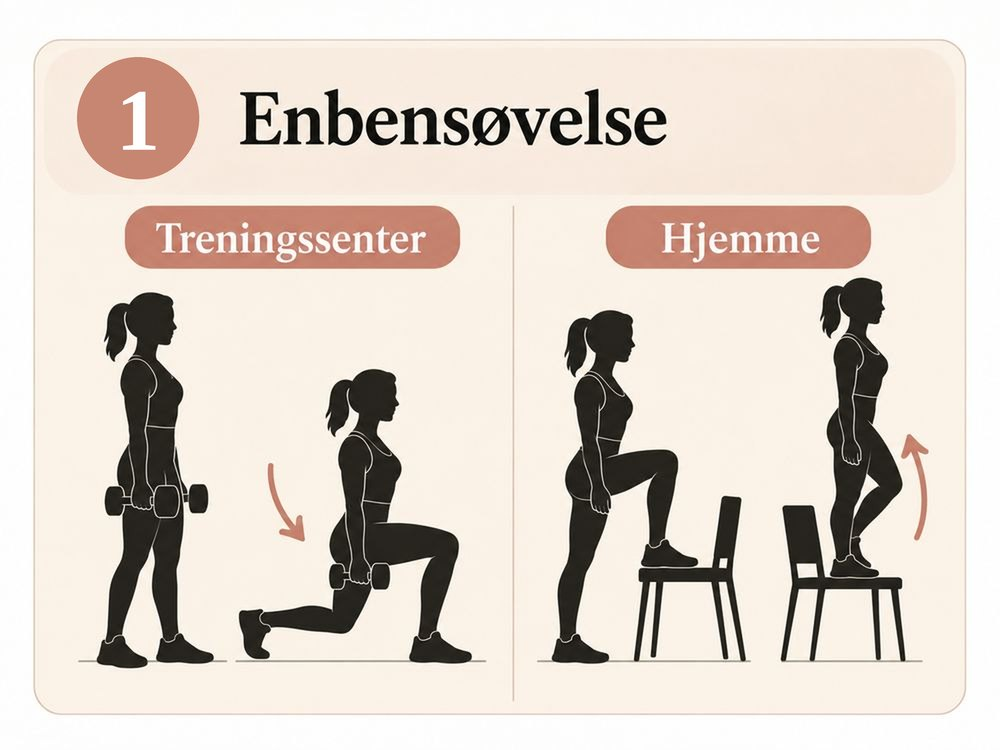
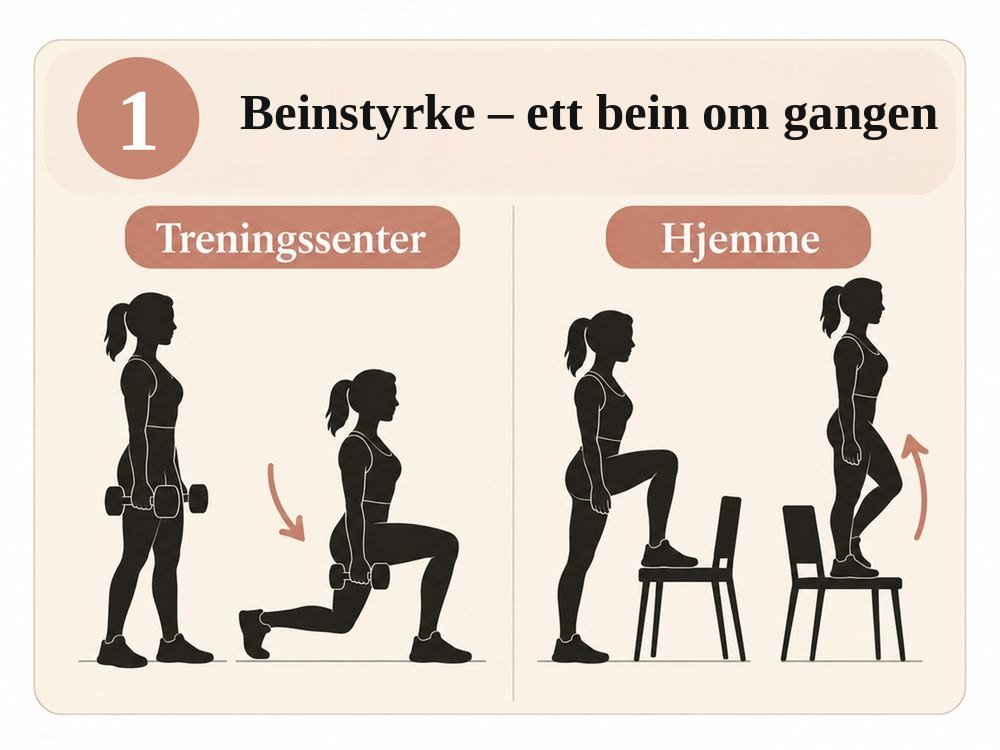
Endre navnet Enbensøvelse til Beinstyrke – ett bein om gangen
Gjelder overskriften i bildene og beskrivelsene av dem på ukeplanene
og i øvelsesbanken.

Claude-Session: https://claude.ai/code/session_01AskgJg6Kkd8mdVzJkkPLJh

Changed region(s): [[0.248, 0.1227, 0.961, 0.2147]]

diff --git a/ovelsesbank.html b/ovelsesbank.html
@@ -434,6 +434,54 @@
   .bank-button:hover { background: #87491a; }
   .bank-button:focus-visible { outline: 3px solid var(--accent-dark); outline-offset: 2px; }
 
+  .print-box {
+    display: flex;
+    flex-wrap: wrap;
+    align-items: center;
+    justify-content: space-between;
+    gap: 0.6rem 1rem;
+    margin: 1.5rem 0 0;
+    padding: 0.9rem 1.1rem;
+    background: var(--card);
+    border: 1px solid var(--border);
+    border-radius: 12px;
+  }
+  .print-box p { margin: 0; flex: 1 1 220px; font-size: 0.9rem; color: var(--muted); }
+  .print-button {
+    display: inline-flex;
+    align-items: center;
+    gap: 0.45rem;
+    padding: 0.6rem 1.1rem;
+    border-radius: 999px;
+    border: 1px solid var(--accent-dark);
+    background: var(--card);
+    color: var(--accent-dark);
+    font-weight: 600;
+    font-size: 0.95rem;
+    cursor: pointer;
+  }
+  .print-button:hover { background: var(--accent-soft); }
+  .print-button:focus-visible { outline: 2px solid var(--accent); outline-offset: 2px; }
+  .print-only { display: none; }
+
+  @media print {
+    @page { margin: 14mm; }
+    body { background: #fff; font-size: 11pt; }
+    .hero { background: none; padding: 0 0 0.5rem; border: 0; text-align: left; }
+    .hero h1 { font-size: 18pt; margin: 0 0 0.25rem; }
+    .hero p { margin: 0; max-width: none; }
+    .page-logo, .print-box, .place-switch, .figure-switch, .equip-button, .bank-button,
+    .home-link, footer.closing, .about-box .chevron { display: none !important; }
+    .print-only { display: block; margin: 0.4rem 0 0; font-size: 10pt; color: #444; }
+    .wrap { max-width: none; padding: 0; }
+    .card, .about-box { box-shadow: none !important; margin: 0.8rem 0 !important; padding: 0.8rem 1rem !important; break-inside: auto; }
+    .card h2, .card h3, .about-box summary { break-after: avoid; }
+    .exercises li, .week li, .meta, .bank-box, .level-note { break-inside: avoid; }
+    .exercises li:nth-child(odd), .meta, .bank-box, .level-note { background: #f3f6f7 !important; -webkit-print-color-adjust: exact; print-color-adjust: exact; }
+    .thumb { -webkit-print-color-adjust: exact; print-color-adjust: exact; }
+    a { color: inherit !important; text-decoration: none !important; }
+  }
+
 
   .bank-intro ol { margin: 0 0 0.75rem; padding-left: 1.25rem; }
   .bank-intro ol li { margin: 0 0 0.5rem; }
@@ -596,7 +644,7 @@
           <ul class="exercises">
           <li><a class="thumb-link v-gym k-kvinne" href="images/ukeplan-kneboy-stor.jpg?v=2" aria-label="Se større bilde: Knebøy på treningssenter"><img class="thumb" src="images/ukeplan-kneboy-senter.jpg" width="120" height="100" loading="lazy" alt="Knebøy på treningssenter: illustrasjon med silhuetter."></a><a class="thumb-link v-gym k-mann" href="images/ukeplan-mann-kneboy-stor.jpg" aria-label="Se større bilde: Knebøy på treningssenter"><img class="thumb" src="images/ukeplan-mann-kneboy-senter.jpg" width="120" height="100" loading="lazy" alt="Knebøy på treningssenter: illustrasjon med silhuetter."></a><a class="thumb-link v-home k-kvinne" href="images/ukeplan-kneboy-stor.jpg?v=2" aria-label="Se større bilde: Knebøy hjemme"><img class="thumb" src="images/ukeplan-kneboy-hjemme.jpg?v=2" width="120" height="100" loading="lazy" alt="Knebøy hjemme: illustrasjon med silhuetter."></a><a class="thumb-link v-home k-mann" href="images/ukeplan-mann-kneboy-stor.jpg" aria-label="Se større bilde: Knebøy hjemme"><img class="thumb" src="images/ukeplan-mann-kneboy-hjemme.jpg" width="120" height="100" loading="lazy" alt="Knebøy hjemme: illustrasjon med silhuetter."></a><span class="v-gym">Knebøy med stang<span class="how">Stanga på øvre del av ryggen. Sett deg ned og litt bakover, knærne følger tærne.</span></span><span class="v-home">Knebøy med manual eller kettlebell<span class="how">Hold vekten foran brystet (goblet-knebøy), gjerne ned mot en stol.</span></span></li>
           <li><a class="thumb-link v-gym k-kvinne" href="images/bank-beinpress-k-stor.jpg" aria-label="Se større bilde: Beinpress på treningssenter"><img class="thumb" src="images/bank-beinpress-k-senter.jpg" width="120" height="100" loading="lazy" alt="Beinpress på treningssenter: illustrasjon med silhuetter."></a><a class="thumb-link v-gym k-mann" href="images/bank-beinpress-stor.jpg" aria-label="Se større bilde: Beinpress på treningssenter"><img class="thumb" src="images/bank-beinpress.jpg" width="120" height="100" loading="lazy" alt="Beinpress på treningssenter: illustrasjon med silhuetter."></a><a class="thumb-link v-home k-kvinne" href="images/bank-beinpress-k-stor.jpg" aria-label="Se større bilde: Beinpress hjemme"><img class="thumb" src="images/bank-beinpress-k-hjemme.jpg" width="120" height="100" loading="lazy" alt="Beinpress hjemme: illustrasjon med silhuetter."></a><a class="thumb-link v-home k-mann" href="images/ukeplan-mann-beinpress-stor.jpg" aria-label="Se større bilde: Beinpress hjemme"><img class="thumb" src="images/ukeplan-mann-beinpress-hjemme.jpg" width="120" height="100" loading="lazy" alt="Beinpress hjemme: illustrasjon med silhuetter."></a><span class="v-gym">Beinpress<span class="how">Senk kontrollert til knærne er rundt 90 grader, og press opp uten å låse knærne.</span></span><span class="v-home">Knebøy til stol på ett bein<span class="how">Sett deg rolig ned på stolen og reis deg på ett bein. Start på to bein med en kettlebell, som på bildet.</span></span></li>
-          <li><a class="thumb-link v-gym k-kvinne" href="images/ukeplan-enbens-stor.jpg" aria-label="Se større bilde: Utfall og step-up på treningssenter"><img class="thumb" src="images/ukeplan-enbens-senter.jpg" width="120" height="100" loading="lazy" alt="Utfall og step-up på treningssenter: illustrasjon med silhuetter."></a><a class="thumb-link v-gym k-mann" href="images/ukeplan-mann-enbens-stor.jpg" aria-label="Se større bilde: Utfall og step-up på treningssenter"><img class="thumb" src="images/ukeplan-mann-enbens-senter.jpg" width="120" height="100" loading="lazy" alt="Utfall og step-up på treningssenter: illustrasjon med silhuetter."></a><a class="thumb-link v-home k-kvinne" href="images/ukeplan-enbens-stor.jpg" aria-label="Se større bilde: Utfall og step-up hjemme"><img class="thumb" src="images/ukeplan-enbens-hjemme.jpg" width="120" height="100" loading="lazy" alt="Utfall og step-up hjemme: illustrasjon med silhuetter."></a><a class="thumb-link v-home k-mann" href="images/ukeplan-mann-enbens-stor.jpg" aria-label="Se større bilde: Utfall og step-up hjemme"><img class="thumb" src="images/ukeplan-mann-enbens-hjemme.jpg" width="120" height="100" loading="lazy" alt="Utfall og step-up hjemme: illustrasjon med silhuetter."></a><span class="v-gym">Utfall med manualer<span class="how">Ta et steg fram eller bak, og senk bakre kne rolig mot gulvet.</span></span><span class="v-home">Step-up på stol<span class="how">Gå opp på en stødig stol eller et trappetrinn med ett bein, og ned igjen kontrollert. Hold gjerne manualer i hendene for mer.</span></span></li>
+          <li><a class="thumb-link v-gym k-kvinne" href="images/ukeplan-enbens-stor.jpg?v=2" aria-label="Se større bilde: Utfall og step-up på treningssenter"><img class="thumb" src="images/ukeplan-enbens-senter.jpg" width="120" height="100" loading="lazy" alt="Utfall og step-up på treningssenter: illustrasjon med silhuetter."></a><a class="thumb-link v-gym k-mann" href="images/ukeplan-mann-enbens-stor.jpg?v=2" aria-label="Se større bilde: Utfall og step-up på treningssenter"><img class="thumb" src="images/ukeplan-mann-enbens-senter.jpg" width="120" height="100" loading="lazy" alt="Utfall og step-up på treningssenter: illustrasjon med silhuetter."></a><a class="thumb-link v-home k-kvinne" href="images/ukeplan-enbens-stor.jpg?v=2" aria-label="Se større bilde: Utfall og step-up hjemme"><img class="thumb" src="images/ukeplan-enbens-hjemme.jpg" width="120" height="100" loading="lazy" alt="Utfall og step-up hjemme: illustrasjon med silhuetter."></a><a class="thumb-link v-home k-mann" href="images/ukeplan-mann-enbens-stor.jpg?v=2" aria-label="Se større bilde: Utfall og step-up hjemme"><img class="thumb" src="images/ukeplan-mann-enbens-hjemme.jpg" width="120" height="100" loading="lazy" alt="Utfall og step-up hjemme: illustrasjon med silhuetter."></a><span class="v-gym">Utfall med manualer<span class="how">Ta et steg fram eller bak, og senk bakre kne rolig mot gulvet.</span></span><span class="v-home">Step-up på stol<span class="how">Gå opp på en stødig stol eller et trappetrinn med ett bein, og ned igjen kontrollert. Hold gjerne manualer i hendene for mer.</span></span></li>
           <li><a class="thumb-link v-gym k-kvinne" href="images/bank-bulgarsk-k-stor.jpg" aria-label="Se større bilde: Bulgarsk utfall på treningssenter"><img class="thumb" src="images/bank-bulgarsk-k-senter.jpg" width="120" height="100" loading="lazy" alt="Bulgarsk utfall på treningssenter: illustrasjon med silhuetter."></a><a class="thumb-link v-gym k-mann" href="images/bank-bulgarsk-stor.jpg" aria-label="Se større bilde: Bulgarsk utfall på treningssenter"><img class="thumb" src="images/bank-bulgarsk-senter.jpg" width="120" height="100" loading="lazy" alt="Bulgarsk utfall på treningssenter: illustrasjon med silhuetter."></a><a class="thumb-link v-home k-kvinne" href="images/bank-bulgarsk-k-stor.jpg" aria-label="Se større bilde: Bulgarsk utfall hjemme"><img class="thumb" src="images/bank-bulgarsk-k-hjemme.jpg" width="120" height="100" loading="lazy" alt="Bulgarsk utfall hjemme: illustrasjon med silhuetter."></a><a class="thumb-link v-home k-mann" href="images/bank-bulgarsk-stor.jpg" aria-label="Se større bilde: Bulgarsk utfall hjemme"><img class="thumb" src="images/bank-bulgarsk-hjemme.jpg" width="120" height="100" loading="lazy" alt="Bulgarsk utfall hjemme: illustrasjon med silhuetter."></a><span class="v-gym">Bulgarsk utfall<span class="how">Bakre fot på en benk, senk deg rett ned. Krevende, og gir mye effekt med lette vekter.</span></span><span class="v-home">Bulgarsk utfall<span class="how">Bakre fot på en stol eller sofa, senk deg rett ned. Krevende, og gir mye effekt med lette vekter.</span></span></li>
           </ul>
         </div>

diff --git a/ukeplan-mann-30-50.html b/ukeplan-mann-30-50.html
@@ -621,7 +621,7 @@
           <li><a class="thumb-link" href="images/ukeplan-mann-markloft-stor.jpg" aria-label="Se større bilde: Rumensk markløft"><img class="thumb" src="images/ukeplan-mann-markloft-senter.jpg" width="120" height="100" loading="lazy" alt="Rumensk markløft på treningssenter: illustrasjon med silhuetter."></a><span>Rumensk markløft<span class="how">Eller markløft med trap bar.</span></span><span class="sets">6–10 rep</span></li>
           <li><a class="thumb-link" href="images/ukeplan-mann-nedtrekk-stor.jpg" aria-label="Se større bilde: Nedtrekk"><img class="thumb" src="images/ukeplan-mann-nedtrekk-senter.jpg" width="120" height="100" loading="lazy" alt="Nedtrekk på treningssenter: illustrasjon med silhuetter."></a><span>Nedtrekk eller pull-ups<span class="how">Trekk stanga ned mot øvre del av brystet. Klarer du pull-ups, kan du bytte til det.</span></span><span class="sets">8–12 rep</span></li>
           <li><a class="thumb-link" href="images/ukeplan-mann-bryst-stor.jpg" aria-label="Se større bilde: Brystpress og push-ups"><img class="thumb" src="images/ukeplan-mann-bryst-senter.jpg" width="120" height="100" loading="lazy" alt="Brystpress og push-ups på treningssenter: illustrasjon med silhuetter."></a><span>Push-ups eller skrå benkpress med manualer</span><span class="sets">8–12 rep</span></li>
-          <li><a class="thumb-link" href="images/ukeplan-mann-enbens-stor.jpg" aria-label="Se større bilde: Enbensøvelse"><img class="thumb" src="images/ukeplan-mann-enbens-senter.jpg" width="120" height="100" loading="lazy" alt="Enbensøvelse på treningssenter: illustrasjon med silhuetter."></a><span>Utfall med manualer</span><span class="sets">8–10 per bein</span></li>
+          <li><a class="thumb-link" href="images/ukeplan-mann-enbens-stor.jpg?v=2" aria-label="Se større bilde: Beinstyrke – ett bein om gangen"><img class="thumb" src="images/ukeplan-mann-enbens-senter.jpg" width="120" height="100" loading="lazy" alt="Beinstyrke – ett bein om gangen på treningssenter: illustrasjon med silhuetter."></a><span>Utfall med manualer</span><span class="sets">8–10 per bein</span></li>
           <li><a class="thumb-link" href="images/ukeplan-mann-sideplanke-stor.jpg" aria-label="Se større bilde: Sideplanke"><img class="thumb" src="images/ukeplan-mann-sideplanke-senter.jpg" width="120" height="100" loading="lazy" alt="Sideplanke på treningssenter: illustrasjon med silhuetter."></a><span>Sideplanke</span><span class="sets">20–30 sek per side</span></li>
           <li><a class="thumb-link" href="images/ukeplan-mann-farmerswalk-stor.jpg" aria-label="Se større bilde: Farmer’s walk"><img class="thumb" src="images/ukeplan-mann-farmerswalk-senter.jpg" width="120" height="100" loading="lazy" alt="Farmer’s walk på treningssenter: illustrasjon med silhuetter."></a><span>Farmer’s walk<span class="how">Gå rolig med en tung manual i hver hånd, rak rygg.</span></span><span class="sets">30–40 m</span></li>
         </ul>
@@ -643,7 +643,7 @@
         </ul>
         <h3>Økt B – fredag</h3>
         <ul class="exercises">
-          <li><a class="thumb-link" href="images/ukeplan-mann-enbens-stor.jpg" aria-label="Se større bilde: Enbensøvelse"><img class="thumb" src="images/ukeplan-mann-enbens-hjemme.jpg" width="120" height="100" loading="lazy" alt="Enbensøvelse hjemme: illustrasjon med silhuetter."></a><span>Step-up på stol<span class="how">Gå opp på en stødig stol eller et trappetrinn med ett bein, og ned igjen kontrollert. Hold gjerne manualer i hendene for mer. For mer: bulgarsk utfall med bakre fot på stolen.</span></span><span class="sets">8–12 per bein</span></li>
+          <li><a class="thumb-link" href="images/ukeplan-mann-enbens-stor.jpg?v=2" aria-label="Se større bilde: Beinstyrke – ett bein om gangen"><img class="thumb" src="images/ukeplan-mann-enbens-hjemme.jpg" width="120" height="100" loading="lazy" alt="Beinstyrke – ett bein om gangen hjemme: illustrasjon med silhuetter."></a><span>Step-up på stol<span class="how">Gå opp på en stødig stol eller et trappetrinn med ett bein, og ned igjen kontrollert. Hold gjerne manualer i hendene for mer. For mer: bulgarsk utfall med bakre fot på stolen.</span></span><span class="sets">8–12 per bein</span></li>
           <li><a class="thumb-link" href="images/ukeplan-mann-markloft-stor.jpg" aria-label="Se større bilde: Rumensk markløft"><img class="thumb" src="images/ukeplan-mann-markloft-hjemme.jpg" width="120" height="100" loading="lazy" alt="Rumensk markløft hjemme: illustrasjon med silhuetter."></a><span>Rumensk markløft med manualer<span class="how">For mer: markløft på ett bein.</span></span><span class="sets">8–12 rep</span></li>
           <li><a class="thumb-link" href="images/ukeplan-mann-pullups-stor.jpg" aria-label="Se større bilde: Pull-ups"><img class="thumb" src="images/ukeplan-mann-pullups-hjemme.jpg" width="120" height="100" loading="lazy" alt="Pull-ups hjemme: illustrasjon med silhuetter."></a><span>Pull-ups i dørstang eller nedtrekk med strikk<span class="how">Uten dørstang, eller hvis pull-ups er for tungt: strikk festet øverst i døra.</span></span><span class="sets">8–12 rep</span></li>
           <li><a class="thumb-link" href="images/ukeplan-mann-bryst-stor.jpg" aria-label="Se større bilde: Brystpress og push-ups"><img class="thumb" src="images/ukeplan-mann-bryst-hjemme.jpg" width="120" height="100" loading="lazy" alt="Brystpress og push-ups hjemme: illustrasjon med silhuetter."></a><span>Push-ups med føttene på en stol<span class="how">Eller vanlige push-ups med sakte senking.</span></span><span class="sets">8–12 rep</span></li>

diff --git a/ukeplan-kvinne-40.html b/ukeplan-kvinne-40.html
@@ -535,7 +535,7 @@
         <li><a class="thumb-link" href="images/ukeplan-roing-stor.jpg?v=2" aria-label="Se større bilde: Roing"><img class="thumb" src="images/ukeplan-roing-senter.jpg?v=2" width="120" height="100" loading="lazy" alt="Roing på treningssenter: illustrasjon med silhuetter."></a><span>Roing eller nedtrekk</span><span class="sets">3 × 6–8</span></li>
         <li><a class="thumb-link" href="images/ukeplan-bryst-stor.jpg" aria-label="Se større bilde: Brystpress og push-ups"><img class="thumb" src="images/ukeplan-bryst-senter.jpg" width="120" height="100" loading="lazy" alt="Brystpress og push-ups på treningssenter: illustrasjon med silhuetter."></a><span>Brystpress eller push-ups</span><span class="sets">3 × 6–8</span></li>
         <li><a class="thumb-link" href="images/ukeplan-skulderpress-stor.jpg" aria-label="Se større bilde: Skulderpress"><img class="thumb" src="images/ukeplan-skulderpress-senter.jpg" width="120" height="100" loading="lazy" alt="Skulderpress på treningssenter: illustrasjon med silhuetter."></a><span>Skulderpress</span><span class="sets">2–3 × 6–8</span></li>
-        <li><a class="thumb-link" href="images/ukeplan-enbens-stor.jpg" aria-label="Se større bilde: Enbensøvelse"><img class="thumb" src="images/ukeplan-enbens-senter.jpg" width="120" height="100" loading="lazy" alt="Enbensøvelse på treningssenter: illustrasjon med silhuetter."></a><span>Enbensøvelse, for eksempel utfall eller step-up</span><span class="sets">2 × 6–8 per bein</span></li>
+        <li><a class="thumb-link" href="images/ukeplan-enbens-stor.jpg?v=2" aria-label="Se større bilde: Beinstyrke – ett bein om gangen"><img class="thumb" src="images/ukeplan-enbens-senter.jpg" width="120" height="100" loading="lazy" alt="Beinstyrke – ett bein om gangen på treningssenter: illustrasjon med silhuetter."></a><span>Beinstyrke – ett bein om gangen, for eksempel utfall eller step-up</span><span class="sets">2 × 6–8 per bein</span></li>
       </ul>
       <p>Avslutt gjerne med litt mage- og kjernestyrke.</p>
     </div>
@@ -551,7 +551,7 @@
         <li><a class="thumb-link" href="images/ukeplan-roing-stor.jpg?v=2" aria-label="Se større bilde: Roing"><img class="thumb" src="images/ukeplan-roing-hjemme.jpg?v=2" width="120" height="100" loading="lazy" alt="Roing hjemme: illustrasjon med silhuetter."></a><span>Roing med manual eller strikk<span class="how">Én arm av gangen med støtte på en stol, eller strikk festet i døra.</span></span><span class="sets">3 × 6–8</span></li>
         <li><a class="thumb-link" href="images/ukeplan-bryst-stor.jpg" aria-label="Se større bilde: Brystpress og push-ups"><img class="thumb" src="images/ukeplan-bryst-hjemme.jpg" width="120" height="100" loading="lazy" alt="Brystpress og push-ups hjemme: illustrasjon med silhuetter."></a><span>Push-ups<span class="how">Mot kjøkkenbenken, så på knærne, så på gulvet. Eller brystpress med manualer liggende på gulvet.</span></span><span class="sets">3 × 6–8</span></li>
         <li><a class="thumb-link" href="images/ukeplan-skulderpress-stor.jpg" aria-label="Se større bilde: Skulderpress"><img class="thumb" src="images/ukeplan-skulderpress-hjemme.jpg" width="120" height="100" loading="lazy" alt="Skulderpress hjemme: illustrasjon med silhuetter."></a><span>Skulderpress med manualer eller strikk<span class="how">Sittende eller stående.</span></span><span class="sets">2–3 × 6–8</span></li>
-        <li><a class="thumb-link" href="images/ukeplan-enbens-stor.jpg" aria-label="Se større bilde: Enbensøvelse"><img class="thumb" src="images/ukeplan-enbens-hjemme.jpg" width="120" height="100" loading="lazy" alt="Enbensøvelse hjemme: illustrasjon med silhuetter."></a><span>Step-up på stol<span class="how">Gå opp på en stødig stol eller et trappetrinn med ett bein, og ned igjen kontrollert. Hold gjerne manualer i hendene for mer.</span></span><span class="sets">2 × 6–8 per bein</span></li>
+        <li><a class="thumb-link" href="images/ukeplan-enbens-stor.jpg?v=2" aria-label="Se større bilde: Beinstyrke – ett bein om gangen"><img class="thumb" src="images/ukeplan-enbens-hjemme.jpg" width="120" height="100" loading="lazy" alt="Beinstyrke – ett bein om gangen hjemme: illustrasjon med silhuetter."></a><span>Step-up på stol<span class="how">Gå opp på en stødig stol eller et trappetrinn med ett bein, og ned igjen kontrollert. Hold gjerne manualer i hendene for mer.</span></span><span class="sets">2 × 6–8 per bein</span></li>
       </ul>
       <p>Avslutt gjerne med litt mage- og kjernestyrke, for eksempel dead bug, bird dog eller planke.</p>
 

diff --git a/trening-kvinner-for-40.html b/trening-kvinner-for-40.html
@@ -631,7 +631,7 @@
         </ul>
         <h3>Økt B</h3>
         <ul class="exercises">
-          <li><a class="thumb-link" href="images/u40-b1-enbens.jpg" aria-label="Se større bilde: Enbensøvelse"><img class="thumb" src="images/ukeplan-enbens-senter.jpg" width="120" height="100" loading="lazy" alt="Enbensøvelse på treningssenter: illustrasjon med silhuetter."></a><span>Utfall eller step-up</span><span class="sets">8–12 per bein</span></li>
+          <li><a class="thumb-link" href="images/u40-b1-enbens.jpg?v=2" aria-label="Se større bilde: Beinstyrke – ett bein om gangen"><img class="thumb" src="images/ukeplan-enbens-senter.jpg" width="120" height="100" loading="lazy" alt="Beinstyrke – ett bein om gangen på treningssenter: illustrasjon med silhuetter."></a><span>Utfall eller step-up</span><span class="sets">8–12 per bein</span></li>
           <li><a class="thumb-link" href="images/u40-b2-markloft.jpg" aria-label="Se større bilde: Rumensk markløft"><img class="thumb" src="images/ukeplan-markloft-senter.jpg" width="120" height="100" loading="lazy" alt="Rumensk markløft på treningssenter: illustrasjon med silhuetter."></a><span>Leg curl eller rumensk markløft<span class="how">Eller en annen øvelse for baksiden av låret.</span></span><span class="sets">8–12 rep</span></li>
           <li><a class="thumb-link" href="images/u40-b3-bryst.jpg" aria-label="Se større bilde: Brystpress og push-ups"><img class="thumb" src="images/ukeplan-bryst-senter.jpg" width="120" height="100" loading="lazy" alt="Brystpress og push-ups på treningssenter: illustrasjon med silhuetter."></a><span>Brystpress med manualer</span><span class="sets">8–12 rep</span></li>
           <li><a class="thumb-link" href="images/u40-b4-nedtrekk.jpg" aria-label="Se større bilde: Nedtrekk"><img class="thumb" src="images/ukeplan-nedtrekk-senter.jpg" width="120" height="100" loading="lazy" alt="Nedtrekk på treningssenter: illustrasjon med silhuetter."></a><span>Nedtrekk</span><span class="sets">8–12 rep</span></li>
@@ -657,7 +657,7 @@
         </ul>
         <h3>Økt B</h3>
         <ul class="exercises">
-          <li><a class="thumb-link" href="images/u40-b1-enbens.jpg" aria-label="Se større bilde: Enbensøvelse"><img class="thumb" src="images/ukeplan-enbens-hjemme.jpg" width="120" height="100" loading="lazy" alt="Enbensøvelse hjemme: illustrasjon med silhuetter."></a><span>Step-up på stol<span class="how">Gå opp på en stødig stol eller et trappetrinn med ett bein, og ned igjen kontrollert. Hold gjerne manualer i hendene for mer.</span></span><span class="sets">8–12 per bein</span></li>
+          <li><a class="thumb-link" href="images/u40-b1-enbens.jpg?v=2" aria-label="Se større bilde: Beinstyrke – ett bein om gangen"><img class="thumb" src="images/ukeplan-enbens-hjemme.jpg" width="120" height="100" loading="lazy" alt="Beinstyrke – ett bein om gangen hjemme: illustrasjon med silhuetter."></a><span>Step-up på stol<span class="how">Gå opp på en stødig stol eller et trappetrinn med ett bein, og ned igjen kontrollert. Hold gjerne manualer i hendene for mer.</span></span><span class="sets">8–12 per bein</span></li>
           <li><a class="thumb-link" href="images/u40-b2-markloft.jpg" aria-label="Se større bilde: Rumensk markløft"><img class="thumb" src="images/ukeplan-markloft-hjemme.jpg" width="120" height="100" loading="lazy" alt="Rumensk markløft hjemme: illustrasjon med silhuetter."></a><span>Rumensk markløft med manualer<span class="how">For mer: markløft på ett bein.</span></span><span class="sets">8–12 rep</span></li>
           <li><a class="thumb-link" href="images/u40-b3-bryst.jpg" aria-label="Se større bilde: Brystpress og push-ups"><img class="thumb" src="images/ukeplan-bryst-hjemme.jpg" width="120" height="100" loading="lazy" alt="Brystpress og push-ups hjemme: illustrasjon med silhuetter."></a><span>Brystpress med manualer<span class="how">Liggende på gulvet eller en benk. Eller push-ups.</span></span><span class="sets">8–12 rep</span></li>
           <li><a class="thumb-link" href="images/u40-b4-nedtrekk.jpg" aria-label="Se større bilde: Nedtrekk"><img class="thumb" src="images/ukeplan-nedtrekk-hjemme.jpg" width="120" height="100" loading="lazy" alt="Nedtrekk med strikk hjemme: illustrasjon med silhuetter."></a><span>Nedtrekk med strikk</span><span class="sets">10–15 rep</span></li>
